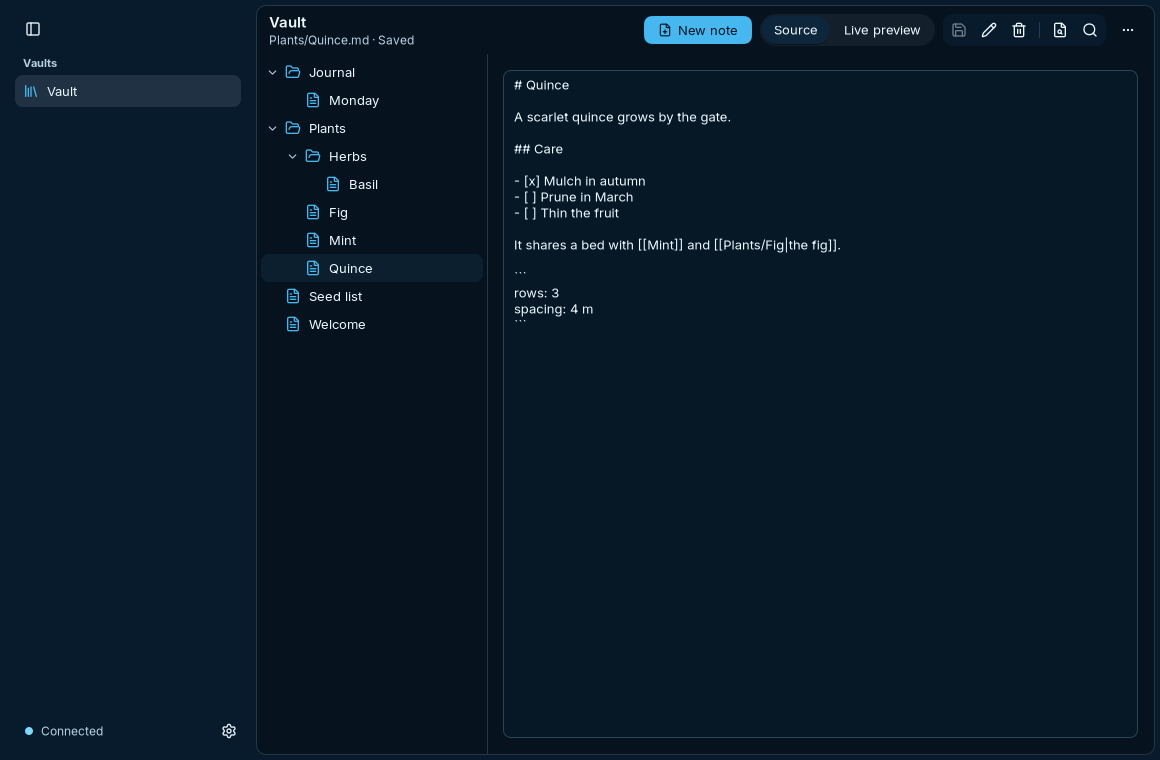
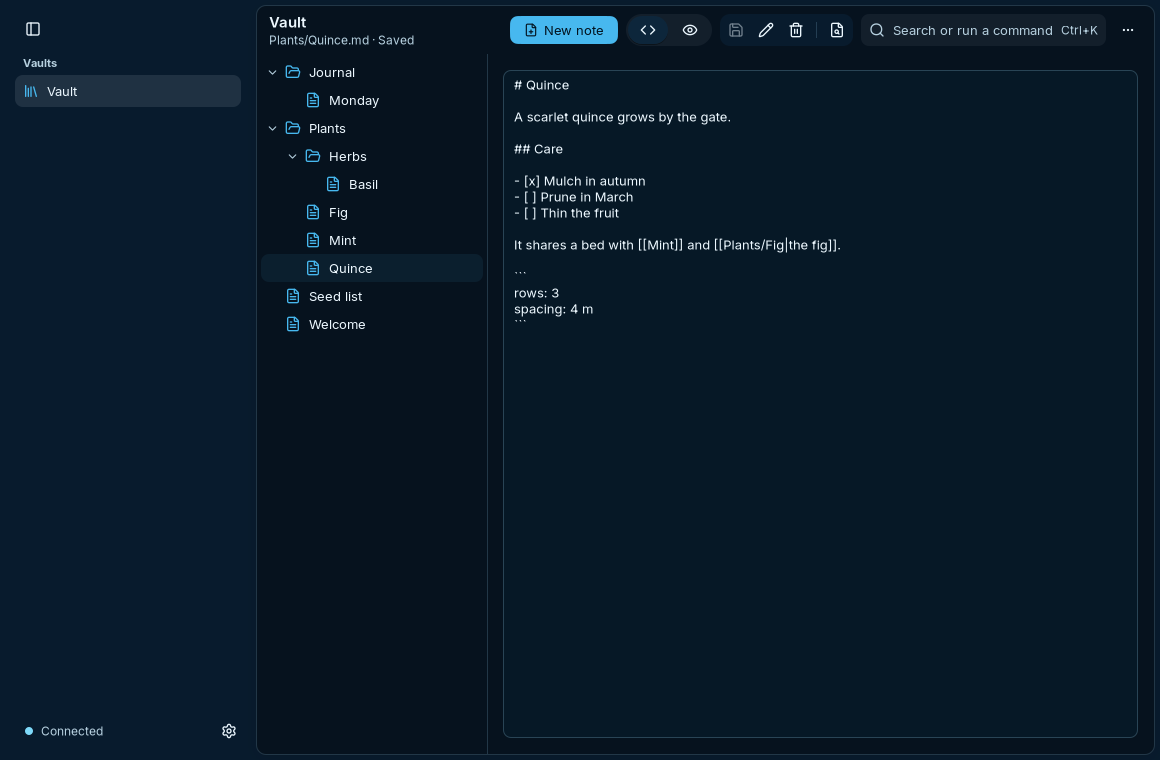
feat(nsgo): make Quick open a palette and put its field in the toolbar
The toolbar holds the palette as a field, "Search or run a command"
with its keys, as FrostMail's and PocketGo's do. The palette lists the
vault's notes and then the app's commands, and leaves out a command with
nothing to act on. The editor's 2 modes are icons named by tooltips, so
that the field has its room.

Changed region(s): [[0.4345, 0.0, 0.9621, 0.0605]]

diff --git a/cmd/frostnotes-nsgo/shell.go b/cmd/frostnotes-nsgo/shell.go
@@ -15,9 +15,9 @@ import (
 // Without the room for them, the actions are one menu.
 
 // toolbarRoom is the least width of the pane under the toolbar that shows
-// the actions as buttons: New note, the editor's two modes, 5 icon
-// buttons and the menu, beside a title.
-const toolbarRoom core.Points = 660
+// the actions as buttons: New note, the editor's two modes, 4 icon
+// buttons, the palette's field and the menu, beside a title.
+const toolbarRoom core.Points = 760
 
 // tool is an action of the toolbar: an icon button there, and an item of a
 // narrow window's menu.
@@ -62,8 +62,8 @@ func (w *workspace) openNote() *notes.Document {
 	return w.doc.Get()
 }
 
-// noteTools act on the open note, findTools on the vault, and restTools are
-// those a person seldom needs, which are always in the menu.
+// noteTools act on the open note, vaultTools on the vault, and restTools
+// are those a person seldom needs, which are always in the menu.
 func (w *workspace) noteTools() []tool {
 	noNote := func() bool { return w.openNote() == nil }
 	return []tool{
@@ -77,11 +77,13 @@ func (w *workspace) noteTools() []tool {
 	}
 }
 
-func (w *workspace) findTools() []tool {
-	return []tool{
-		{label: quickOpen, icon: lucide.FileSearch, keys: "mod+k", off: w.noVault, run: func() { w.showAction(quickOpen) }},
-		{label: vaultSearch, icon: lucide.Search, keys: "mod+shift+f", off: w.noVault, run: func() { w.showAction(vaultSearch) }},
-	}
+func (w *workspace) vaultTools() []tool {
+	return []tool{{label: vaultSearch, icon: lucide.FileSearch, keys: "mod+shift+f", off: w.noVault, run: func() { w.showAction(vaultSearch) }}}
+}
+
+// palette is the palette's way in for a window with no room for its field.
+func (w *workspace) palette() tool {
+	return tool{label: paletteLabel, icon: lucide.Search, keys: "mod+k", off: w.noVault, run: func() { w.showAction(quickOpen) }}
 }
 
 func (w *workspace) restTools() []tool {
@@ -130,8 +132,9 @@ func bar(children ...core.Node) core.Node {
 }
 
 // actions is the toolbar's end. With the room: New note, the editor's two
-// modes, the note's and the vault's actions, and the menu of the rest.
-// Without it: New note and one menu of everything.
+// modes, the note's and the vault's actions, the palette as a field with
+// its keys, and the menu of the rest. Without it: New note and one menu of
+// everything.
 func (w *workspace) actions(cx *core.Scope) core.Node {
 	narrow := core.NewMemo(cx, func() bool {
 		window := cx.Env().Window().Width
@@ -152,14 +155,25 @@ func (w *workspace) actions(cx *core.Scope) core.Node {
 		}
 		return bar(
 			ui.Button{Text: newNote, Icon: lucide.FilePlus, Disabled: w.noVault, OnPress: create},
+			// The modes are icons, named by their tooltips, so that the
+			// palette's field has its room.
 			ui.Tabs[bool]{Variant: ui.TabsSegmented, Label: "Editor", Value: w.live.Get, OnChange: w.live.Set,
-				Options: []ui.Option[bool]{{Value: false, Label: "Source"}, {Value: true, Label: "Live preview"}}},
+				Options: []ui.Option[bool]{mode(false, "Source", lucide.Code), mode(true, "Live preview", lucide.Eye)}},
 			ui.Toolbar{Label: "Note and vault", Children: []core.Node{
 				ui.ToolbarGroup{Label: "Note", Children: buttons(w.noteTools())},
 				ui.ToolbarSeparator{},
-				ui.ToolbarGroup{Label: "Find", Children: buttons(w.findTools())}}},
+				ui.ToolbarGroup{Label: "Vault", Children: buttons(w.vaultTools())}}},
+			ui.SidebarButton{Text: paletteLabel, Icon: lucide.Search, Shortcut: "mod+k", Variant: ui.SidebarButtonField, OnPress: w.palette().run},
 			w.moreMenu(false))
 	})
+}
+
+// mode is one of the editor's 2 modes in the toolbar: its icon, named by a
+// tooltip and to assistive technology.
+func mode(live bool, name string, icon func() *core.SVG) ui.Option[bool] {
+	return ui.Option[bool]{Value: live, Label: name, Content: core.Dynamic(func(cx *core.Scope) core.Node {
+		return ui.Tooltip{Text: name, Trigger: ui.Icon(icon, 16, ui.ColorsOf(cx).Text)}
+	})}
 }
 
 // moreMenu is the toolbar's menu: the actions a person seldom needs, and,
@@ -175,7 +189,8 @@ func (w *workspace) moreMenu(all bool) core.Node {
 		}))
 		children = append(children, items(w.noteTools())...)
 		children = append(children, ui.MenuSeparator{})
-		children = append(children, items(w.findTools())...)
+		children = append(children, w.palette().item())
+		children = append(children, items(w.vaultTools())...)
 		children = append(children, ui.MenuSeparator{})
 	}
 	children = append(children, items(w.restTools())...)

diff --git a/cmd/frostnotes-nsgo/find.go b/cmd/frostnotes-nsgo/find.go
@@ -18,6 +18,32 @@ const (
 	vaultSearch = "Search vault"
 )
 
+// paletteLabel names the palette where the window shows it: the toolbar's
+// field, and the menu of a window with no room for the field. The 3 apps
+// on the kit name it so.
+const paletteLabel = "Search or run a command"
+
+// commandID starts the id of a command in the palette. A note's id is its
+// path in the vault, which starts with no colon.
+const commandID = ":command:"
+
+// commands are what the palette runs: every action of the toolbar and its
+// menu but the palette itself, the editor's 2 modes, and Settings where
+// the app has it.
+func (w *workspace) commands() []tool {
+	out := []tool{{label: newNote, keys: "mod+n", off: w.noVault, run: func() { w.showAction(newNote) }}}
+	out = append(out, w.noteTools()...)
+	out = append(out, w.vaultTools()...)
+	out = append(out, w.restTools()...)
+	out = append(out,
+		tool{label: "Show source", off: func() bool { return !w.live.Get() }, run: func() { w.live.Set(false) }},
+		tool{label: "Show live preview", off: w.live.Get, run: func() { w.live.Set(true) }})
+	if w.hasSettings {
+		out = append(out, tool{label: "Settings", keys: "mod+,", run: func() { w.settings.Set(true) }})
+	}
+	return out
+}
+
 func (w *workspace) showAction(action string) {
 	if w.vault.GetUntracked() != 0 {
 		w.action.Set(action)
@@ -25,8 +51,9 @@ func (w *workspace) showAction(action string) {
 }
 
 // bindNoteActions binds the app's keys (the kit's standard for an app,
-// rule 7): mod+K the palette, which here is Quick open, and mod+N the new
-// note. mod+O stays Quick open's older key.
+// rule 7): mod+K the palette, which is Quick open with the app's commands
+// under the notes, and mod+N the new note. mod+O stays the palette's older
+// key.
 func (w *workspace) bindNoteActions() {
 	for key, action := range map[string]string{"mod+n": newNote, "mod+k": quickOpen, "mod+o": quickOpen, "mod+shift+f": vaultSearch} {
 		w.cx.OnKey(key, func() { w.showAction(action) })
@@ -104,13 +131,35 @@ func (w *workspace) createDialog(cx *core.Scope) core.Node {
 func (w *workspace) findDialog(cx *core.Scope, action string) core.Node {
 	pick := ui.Command{Label: action, SearchLabel: "Find note", Placeholder: "Find by title or path", Empty: "No matching notes", OnSelect: func(p string) { w.action.Set(""); w.open(p) }}
 	if action == quickOpen {
+		// The palette: the vault's notes, by title or path, and then what
+		// the app can do, by name.
+		commands := w.commands()
+		pick.Placeholder, pick.Empty = "Find a note or run a command", "No matching notes or commands"
 		pick.Items = func() []base.CommandItem {
 			files := w.files.Get()
-			items := make([]base.CommandItem, 0, len(files))
+			items := make([]base.CommandItem, 0, len(files)+len(commands))
 			for _, f := range files {
-				items = append(items, base.CommandItem{ID: f.Path, Label: f.Title, Description: f.Path, Keywords: []string{f.Path}})
+				items = append(items, base.CommandItem{ID: f.Path, Label: f.Title, Description: f.Path, Keywords: []string{f.Path}, Group: "Notes"})
+			}
+			for _, c := range commands {
+				if c.off == nil || !c.off() {
+					items = append(items, base.CommandItem{ID: commandID + c.label, Label: c.label, Shortcut: c.keys, Group: "Commands"})
+				}
 			}
 			return items
+		}
+		pick.OnSelect = func(id string) {
+			w.action.Set("")
+			name, isCommand := strings.CutPrefix(id, commandID)
+			if !isCommand {
+				w.open(id)
+				return
+			}
+			for _, c := range commands {
+				if c.label == name {
+					c.run()
+				}
+			}
 		}
 	} else {
 		query := core.NewSignal(cx, "")

diff --git a/cmd/frostnotes-nsgo/workspace_test.go b/cmd/frostnotes-nsgo/workspace_test.go
@@ -294,7 +294,7 @@ func TestToolbarHoldsTheNotesActions(t *testing.T) {
 			t.Errorf("%s can be pressed with no note open", sel)
 		}
 	}
-	for _, sel := range []string{"label:New note", "label:Quick open", "label:Search vault", "role:tab Source", "role:tab Live preview", "label:More"} {
+	for _, sel := range []string{"label:New note", "label:" + paletteLabel, "label:Search vault", "role:tab Source", "role:tab Live preview", "label:More"} {
 		if !app.Enabled(sel) {
 			t.Errorf("%s cannot be pressed with a vault shown", sel)
 		}
@@ -324,7 +324,7 @@ func TestNarrowWindowKeepsTheActionsInOneMenu(t *testing.T) {
 	app, _ := startVault(t, map[string]string{"First.md": "First\n"}, 600, 760)
 	app.WaitFor("label:First", 10*time.Second)
 	app.Find("label:New note")
-	for _, sel := range []string{"role:tab Live preview", "label:Quick open", "label:Move to trash"} {
+	for _, sel := range []string{"role:tab Live preview", "label:" + paletteLabel, "label:Move to trash"} {
 		if app.Exists(sel) {
 			t.Errorf("%s is in the toolbar of a window 600 wide\n%s", sel, app.Dump())
 		}
@@ -332,7 +332,7 @@ func TestNarrowWindowKeepsTheActionsInOneMenu(t *testing.T) {
 	app.Press("label:First")
 	app.WaitFor("text:First.md · Saved", 10*time.Second)
 	app.Press("label:More")
-	for _, item := range []string{"Save", "Rename or move note", "Move to trash", "Quick open", "Search vault", "Restore deleted note", "Refresh vaults and notes"} {
+	for _, item := range []string{"Save", "Rename or move note", "Move to trash", paletteLabel, "Search vault", "Restore deleted note", "Refresh vaults and notes"} {
 		app.WaitFor("label:"+item, 5*time.Second)
 	}
 	app.Press("label:Show live preview")
@@ -373,6 +373,40 @@ func TestSettingsTakesTheVaultsPlaceAndGivesItBack(t *testing.T) {
 	app.Press("label:Cancel")
 	app.WaitForGone("label:Remove vault", 5*time.Second)
 	app.Find("id:settings")
+}
+
+// TestPaletteFindsNotesAndRunsCommands checks the palette: the toolbar's
+// field and mod+K open it, a note's name opens the note, and a command's
+// name runs the command, with those that have nothing to act on left out.
+func TestPaletteFindsNotesAndRunsCommands(t *testing.T) {
+	app, _ := startWorkspace(t)
+	app.Press("label:" + paletteLabel)
+	app.WaitFor("label:Find note", 5*time.Second)
+	// No note is open, so the palette offers nothing that acts on one.
+	app.Find("role:dialog >> text:Restore deleted note")
+	if app.Exists("role:dialog >> text:Move to trash") {
+		t.Errorf("the palette offers the trash with no note open\n%s", app.Dump())
+	}
+	app.Type("label:Find note", "Second")
+	app.Key("enter")
+	app.WaitFor("text:Second.md · Saved", 5*time.Second)
+	app.Key("mod+k")
+	app.WaitFor("label:Find note", 5*time.Second)
+	app.Type("label:Find note", "trash")
+	app.Key("enter")
+	app.WaitFor(`text:Move "Second.md" to the trash?`, 5*time.Second)
+	app.Press("label:Cancel")
+	app.WaitForGone("label:Trash note", 5*time.Second)
+	app.Key("mod+k")
+	app.WaitFor("label:Find note", 5*time.Second)
+	app.Type("label:Find note", "live preview")
+	app.Key("enter")
+	app.WaitFor("label:Edit line 1", 5*time.Second)
+	app.Key("mod+k")
+	app.WaitFor("label:Find note", 5*time.Second)
+	app.Type("label:Find note", "settings")
+	app.Key("enter")
+	app.WaitFor("id:settings", 5*time.Second)
 }
 
 func TestCreateAndFindNote(t *testing.T) {

diff --git a/cmd/frostnotes-nsgo/main.go b/cmd/frostnotes-nsgo/main.go
@@ -67,8 +67,10 @@ type workspace struct {
 	// listed says the shown vault's notes have been read, so an empty tree
 	// is a vault with no notes and not one still being read.
 	listed *core.Signal[bool]
-	// settings shows Settings in place of the vault.
-	settings *core.Signal[bool]
+	// settings shows Settings in place of the vault, where the app has
+	// Settings: hasSettings.
+	settings    *core.Signal[bool]
+	hasSettings bool
 	// contentWidth is the width of the pane under the toolbar.
 	contentWidth *core.Signal[core.Points]
 }
@@ -151,6 +153,7 @@ func root(cx *core.Scope) core.Node {
 		}
 	})
 	settings := w.settingsView(cx)
+	w.hasSettings = settings != nil
 	shell := workspaceui.Shell{
 		Brand: "FrostNotes", Header: []core.Node{w.header()}, Actions: []core.Node{w.actions(cx)},
 		SidebarFooter: []core.Node{w.sidebarFoot()},

diff --git a/cmd/frostnotes-nsgo/pictures_test.go b/cmd/frostnotes-nsgo/pictures_test.go
@@ -100,6 +100,9 @@ func TestPicturesOfQuickOpen(t *testing.T) {
 	app.Screenshot("quick-open")
 	app.Type("label:Find note", "plants")
 	app.Screenshot("quick-open-query")
+	app.Clear("label:Find note")
+	app.Type("label:Find note", "note")
+	app.Screenshot("palette-commands")
 }
 
 func TestPicturesOfVaultSearch(t *testing.T) {

diff --git a/docs/design/app.md b/docs/design/app.md
@@ -62,13 +62,14 @@ The client draws the kit's Frostyard look: Frostyard in the dark appearance and 
 
 The client keeps to the kit's standard for an app (frostui's `docs/specs/workspaceui.md`; frostmail's plan 0016, Phase 5), in these places:
 
-- **The toolbar** (`shell.go`). The window's toolbar holds the vault's name over the open note's path and state, New note, which is the window's one filled button, the editor's 2 modes as a segmented control, the note's actions (Save, Rename or move note, Move to trash) and the vault's (Quick open, Search vault) as icon buttons, and a More menu with Restore deleted note and Refresh vaults and notes. The note's actions are dim with no note open. Where the pane under the toolbar is under 660 wide, or the window under 720, New note is an icon button and one menu holds every other action, the editor's mode with them. Until 2026-11-24 the note's path, state and actions were a row over the editor, each of its buttons filled.
+- **The toolbar** (`shell.go`). The window's toolbar holds the vault's name over the open note's path and state, New note, which is the window's one filled button, the editor's 2 modes as a segmented control of 2 icons named by their tooltips, the note's actions (Save, Rename or move note, Move to trash) and Search vault as icon buttons, the palette as a field, "Search or run a command" with its keys, as FrostMail's and PocketGo's toolbars have it, and a More menu with Restore deleted note and Refresh vaults and notes. The note's actions are dim with no note open. Where the pane under the toolbar is under 760 wide, or the window under 720, New note is an icon button and one menu holds every other action, the editor's mode and the palette with them. Until 2026-11-24 the note's path, state and actions were a row over the editor, each of its buttons filled.
+- **The palette** (`find.go`) is Quick open with the app's commands under the vault's notes: a note's title or path opens the note, and a command's name runs it. The commands are the toolbar's and its menu's actions, the editor's 2 modes, and Settings on a desktop; one with nothing to act on, as the trash with no note open, is left out.
 - **The editor's pane** (`main.go`). What notesd has to say about the open note (overlapping edits, a refused save, a deletion, a failed load) is the kit's `Banner` over the note's text, in the tone of what happened, with Dismiss. A note still loading is NSGo's skeleton, and a pane with no note the kit's `EmptyState`. What goes wrong in the app itself is the kit's `Notice` over the window, in the danger tone.
 - **Dialogs** (`dialogs.go`). A form (New note, Rename or move note, Restore deleted note, and the vault forms) is NSGo's dialog on the kit's panel: Cancel, quiet and first, then the one filled button, and what went wrong as a `Banner` in the danger tone. Moving a note to the trash and removing a vault ask in NSGo's alert dialog, which names the note or the vault, with the action in the danger variant. The alert closes as its action starts, so a failure of the action shows over the window.
 - **Settings** (`vaults_native.go`) is NSGo's settings view, shown in place of the vault by the gear at the navigation's foot or mod+, and left by Done or a press of a vault's row. Its rows start the vault forms, show the shown vault's sync, and hold the device's choices. The tree and the editor are kept while it shows (`core.NewHolder`), so the open note and its undo history are there after it. Until 2026-11-24 this was a dialog, Manage vaults, of filled buttons. The Lodge build has no Settings.
 - **The navigation's foot** is the kit's `ConnectionItem`: a dot, green while notesd answers, and the connection's line.
 - **States.** The tree shows a skeleton until the vault's notes have been read, then its notes or the kit's `EmptyState`.
-- **Keys.** mod+K and mod+O are Quick open, mod+N New note, mod+Shift+F Search vault, mod+S Save, mod+, Settings.
+- **Keys.** mod+K and mod+O are the palette, mod+N New note, mod+Shift+F Search vault, mod+S Save, mod+, Settings.
 - **No look written as a number** (`TestNoLiteralLooks`), but 1 the kit has no token for: a Markdown heading's size in live preview. A padding takes the kit's spacing.
 
 Not done of the standard: the window's size, place and pane widths are not kept (rule 8), and nothing answers mod+F.
@@ -1137,11 +1138,12 @@ pictures now show the kit's Frostyard look
     steps there.
 
   No test skips on a target.
-- **The kept pictures,** `cmd/frostnotes-nsgo/comparison/linux`: 24 PNGs,
-  1160 by 760 and, for a narrow window, 600 by 760. 19 are in Frostyard
+- **The kept pictures,** `cmd/frostnotes-nsgo/comparison/linux`: 25 PNGs,
+  1160 by 760 and, for a narrow window, 600 by 760. 20 are in Frostyard
   light: no note selected, a note in source and in live preview, a line
-  under edit, the More menu, the 4 note dialogs, quick open with and
-  without a query, vault search, Settings and the join form, a notesd
+  under edit, the More menu, the 4 note dialogs, the palette with no
+  query, with a note's and with a command's, vault search, Settings and
+  the join form, a notesd
   with no vault, and the narrow tree, note, menu and navigation. 5, named
   `dark-`, are in Frostyard: a note in source and in live preview, the
   dialog that moves a note, Settings and the narrow note.

diff --git a/docs/development.md b/docs/development.md
@@ -85,7 +85,7 @@ printf 'Vault: %s\nOpen: http://127.0.0.1:5173/#token=%s\n' "$trial/Notebook" "$
 
 Open **Field notes** on both screens. Edit it in one window and press **Save**. The other editor should update in place. Reverse the direction. If both editors change the same line from the same starting version, the later writer should see the conflict notice. Inspect its version with `build/notesctl versions 'Field notes.md'`. To finish the trial, run `kill "$web" "$native" "$daemon"` in the original shell.
 
-Use **New note** (Ctrl/Cmd+N) to create a note in the selected vault. Enter a path such as `Plants/Field notes` to create it in a folder. **Quick open** (Ctrl/Cmd+K, or Ctrl/Cmd+O) matches note titles and paths. **Search vault** (Ctrl/Cmd+Shift+F) searches indexed contents and shows the matching passage. Use the arrow keys and Enter to open a result. The toolbar buttons also work when the browser reserves a shortcut.
+Use **New note** (Ctrl/Cmd+N) to create a note in the selected vault. Enter a path such as `Plants/Field notes` to create it in a folder. The toolbar's **Search or run a command** field (Ctrl/Cmd+K, or Ctrl/Cmd+O) matches note titles and paths, and the app's commands by name. **Search vault** (Ctrl/Cmd+Shift+F) searches indexed contents and shows the matching passage. Use the arrow keys and Enter to open a result. The toolbar buttons also work when the browser reserves a shortcut.
 
 From an open note, **Rename or move note** accepts a new vault-relative path. The checkbox controls whether notesd rewrites links. **Move to trash** saves pending edits and asks for confirmation. To bring a note back, open **Restore deleted note** in the toolbar's **More** menu and enter its old path, or select a recent removal observed by this window. Restore reads the last retained contents from notesd and checks that the path is still free.
 
